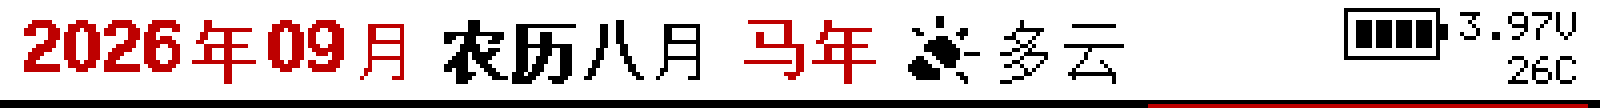
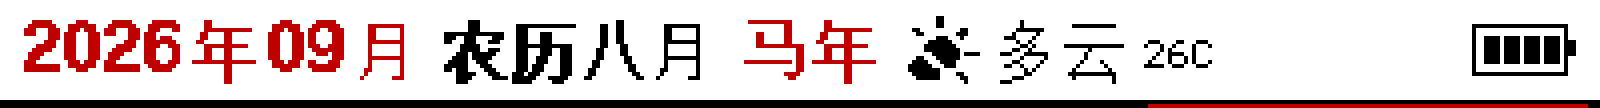
zk42v-epd: build 43 —— 表头收尾：温度跟天气走，电池只留图标
两处按你说的改：
  · 温度从"右上角电池下面那行小字"挪到**天气后面**（"多云 26C"读成一句话）。
    手机下发的天气温度优先（整度 26C），没收到过才退回片内温度（26.4C）；
    没有天气码时画在"马年"后面。新增 draw_header_temp() 把这段收干净。
  · 电池**只画图标**，不写 "3.97V" 那几个字；图标顺势竖直居中
    （原来跟温度/电压挤成两行，贴着上沿）。

ZK_BUILD_ID 42 -> 43；预览图（表头放大 4 倍 + 整页）重出；
test_gui 的 5d 判据数字跟着换（165 -> 363 -> 559）。

镜像：check_sum 0x00C79934 / 128504 字节 / 33 颗扇区 /
SHA-256 d1791a114802e6deb6b49f653c0f3a4e5ecb119b0abf04a22ac380ef0b47c088
固件 10 套自测全绿。

Changed region(s): [[0.8125, 0.1111, 1.0, 0.7778], [0.7188, 0.3611, 0.7812, 0.6389], [0.8125, 0.0556, 0.9062, 0.1111]]

diff --git a/zk42v-epd/firmware/zk42v-epd-app/Src/img/zkgui.c b/zk42v-epd/firmware/zk42v-epd-app/Src/img/zkgui.c
@@ -653,6 +653,7 @@ static void draw_dial(uint8_t *buf, int cx, int cy, int r, int hour, int min)
    我们按 6 行排：表头 26 + 黑条 22 + 格子 252 → 行距 42。 */
 #define CAL_HDR_H    26                            /* 表头（白底） */
 #define CAL_HDR_ICON_Y 3                           /* 表头里天气图标的上边距（20px 图标 -> 3..22） */
+#define CAL_HDR_TEMP_Y 10                          /* 表头里温度那串小字的上边距（5x7 字，跟 16px 的天气文字对齐居中） */
 #define CAL_WD_Y     26                            /* 黑星期条 */
 #define CAL_WD_H     22
 #define CAL_GRID_Y   48                            /* 格子区从黑条下沿开始 */
@@ -754,8 +755,7 @@ static void draw_battery(uint8_t *buf, int x, int y, int pct)
 /*
  * 表头（两页共用）—— 版式照社区第 14 号那版（三色纯日历）：
  *
- *   红 2026年09月   黑 农历八月   红 马年   [图标]多云   [电池] 3.90V
- *                                                                 26C
+ *   红 2026年09月   黑 农历八月   红 马年   [图标]多云 26C    [电池] 3.90V
  *   ─────────────────────────────────────────────────────────────
  *
  * 跟 build 29 那版的区别：**不再是黑条白字**，改成白底 —— 年月用红色、农历黑色、
@@ -765,13 +765,76 @@ static void draw_battery(uint8_t *buf, int x, int y, int pct)
  *   · 星期（星期X）**不画了**：下面那条黑星期条已经写着一~日，表头重复一遍是浪费；
  *   · 天气画在"马年"右边：**图标 + 文字**（多云 / 雷阵雨…），
  *     天气码 + 天气温度都是手机经 BLE 命令 0x71 下发的（这块板子没有天气传感器）。
+ *
+ * build 43：**温度跟着天气走**（原来挤在右上角电池下面那行小字的位置）——
+ *   现在挨着天气文字画，"多云 26C"读起来是一句话；右上角**只留电池图标**
+ *   （不写 "3.97V" 那几个字了，电量多少看图标里那几格）。
  */
+/* 表头里那串温度（"26C" / "-2C" / "26.4C"）—— build 43 起画在**天气后面**。
+   手机下发的天气温度优先（整度）；没收到过才退回片内温度（一位小数）。
+   返回画完之后的 x（没温度可画就原样返回）。 */
+static int draw_header_temp(uint8_t *buf, int x, const zkgui_info_t *info)
+{
+    char s[8];
+    int  neg = 0;
+
+    if (info->env_temp_c != (int8_t)(-128))
+    {
+        int t  = info->env_temp_c;
+        int av = (t < 0) ? -t : t;
+        int k  = 0;
+
+        neg = (t < 0);
+        if (av >= 10)
+        {
+            s[k++] = (char)('0' + (av / 10) % 10);
+        }
+        s[k++] = (char)('0' + av % 10);
+        s[k++] = 'C';
+        s[k]   = 0;
+    }
+    else if (info->temp_c10 != ZK_TEMP_NONE)
+    {
+        int t  = info->temp_c10;
+        int av = (t < 0) ? -t : t;
+
+        neg = (t < 0);
+        s[0] = (char)('0' + (av / 100) % 10);
+        s[1] = (char)('0' + (av / 10) % 10);
+        s[2] = '.';
+        s[3] = (char)('0' + av % 10);
+        s[4] = 'C';
+        s[5] = 0;
+        if (av < 100)                        /* 26.4 -> "26.4C" */
+        {
+            s[0] = s[1];
+            s[1] = s[2];
+            s[2] = s[3];
+            s[3] = 'C';
+            s[4] = 0;
+        }
+    }
+    else
+    {
+        return x;                            /* 两个温度都没有：这一段留空 */
+    }
+
+    x += 3;                                  /* 跟天气文字拉开 3px */
+    if (neg)
+    {
+        draw_text5(buf, x, CAL_HDR_TEMP_Y, "-", 1, C_BLACK);
+        x += 7;
+    }
+    draw_text5(buf, x, CAL_HDR_TEMP_Y, s, 1, C_BLACK);
+    return x + text5_width(s, 1);
+}
+
 static void draw_header(uint8_t *buf, int year, int mon, int day,
                         const zkgui_info_t *info, int with_lunar)
 {
     char  s[12];
     char  mbuf[16];
-    int   x, n, zi;
+    int   x, zi;
 
     fill_rect(buf, 0, 0, ZKGUI_W, CAL_HDR_H - 1, C_WHITE);
 
@@ -854,69 +917,16 @@ static void draw_header(uint8_t *buf, int year, int mon, int day,
         }
     }
 
-    /* 右上：电池 + 电压 / 温度（两行小字，照样板挤在右上角） */
-    n = ZKGUI_W - 6;
+    /* 再右：温度 —— **手机给的天气温度优先**，没有才退回片内温度。
+       build 43 起从右上角挪到这里，紧跟天气（"多云 26C"是一句话） */
+    x = draw_header_temp(buf, x, info);
+
+    /* 右上：**只画电池图标**（build 43：不写"3.97V"那几个字了，格子不够好看；
+       电量多少直接看图标里那几格）。图标竖直居中，跟左边那行字对齐。 */
+    static const int bat_w = 26;                 /* draw_battery 里那个 26x13 的外形 */
     if (info->bat_mv >= 0)
     {
-        int mv = info->bat_mv;
-
-        s[0] = (char)('0' + (mv / 1000) % 10);
-        s[1] = '.';
-        s[2] = (char)('0' + (mv / 100) % 10);
-        s[3] = (char)('0' + (mv / 10) % 10);
-        s[4] = 'V';
-        s[5] = 0;
-        x = n - text5_width(s, 1);
-        draw_battery(buf, x - 29, 2, info->bat_pct);
-        draw_text5(buf, x, 3, s, 1, C_BLACK);
-    }
-    /* 温度：**优先用手机下发的天气温度**（整度，见 BLE 命令 0x71）；
-       没收到过才退回片内温度（一位小数）—— 片内温度是芯片结温，不是天气 */
-    if (info->env_temp_c != (int8_t)(-128))
-    {
-        int t  = info->env_temp_c;
-        int av = (t < 0) ? -t : t;
-        int k  = 0;
-
-        if (t < 0)
-        {
-            s[k++] = '-';
-        }
-        if (av >= 10)
-        {
-            s[k++] = (char)('0' + (av / 10) % 10);
-        }
-        s[k++] = (char)('0' + av % 10);
-        s[k++] = 'C';
-        s[k]   = 0;
-        x = n - text5_width(s, 1);
-        draw_text5(buf, x, 14, s, 1, C_BLACK);
-    }
-    else if (info->temp_c10 != ZK_TEMP_NONE)
-    {
-        int t  = info->temp_c10;
-        int av = (t < 0) ? -t : t;
-
-        s[0] = (char)('0' + (av / 100) % 10);
-        s[1] = (char)('0' + (av / 10) % 10);
-        s[2] = '.';
-        s[3] = (char)('0' + av % 10);
-        s[4] = 'C';
-        s[5] = 0;
-        if (av < 100)
-        {
-            s[0] = s[1];
-            s[1] = s[2];
-            s[2] = s[3];
-            s[3] = 'C';
-            s[4] = 0;
-        }
-        x = n - text5_width(s, 1);
-        if (t < 0)
-        {
-            draw_text5(buf, x - 7, 14, "-", 1, C_BLACK);
-        }
-        draw_text5(buf, x, 14, s, 1, C_BLACK);
+        draw_battery(buf, ZKGUI_W - 6 - bat_w, (CAL_HDR_H - 1 - 13) / 2, info->bat_pct);
     }
 
     /* 表头下面一条黑线 == 星期条的上边框 */

diff --git a/zk42v-epd/firmware/zk42v-epd-app/Src/board/zk_dbg.h b/zk42v-epd/firmware/zk42v-epd-app/Src/board/zk_dbg.h
@@ -23,7 +23,7 @@
    ⚠ 这个数一直停在 31 —— build 32~41 忘了跟着 +1，结果状态块里的 `build = 31`
    跟 README 的「build 4x」对不上，刷机后没法一眼确认"新固件到底跑起来没有"。
    build 42 起跟 README 的里程碑号对齐（这一版就是 42）。 */
-#define ZK_BUILD_ID   42u
+#define ZK_BUILD_ID   43u
 
 /* B2-A：BLE 状态（写进状态块，status.sh 能读） */
 #define ZK_BLE_ST_OFF        0u

diff --git a/zk42v-epd/firmware/README.md b/zk42v-epd/firmware/README.md
@@ -1,5 +1,31 @@
 # ZK42V 自研固件（方向 B）第一版：把屏点亮
 
+> **2026-09-29 build 43 —— 表头收尾：温度跟天气走，电池只留图标**
+>
+> 按你说的两处改完，表头就是：
+>
+> ```
+> 2026年09月   农历八月   马年   [☀]多云 26C            [电池]
+> ```
+>
+> 1. **温度挪到天气后面**（原来挤在右上角电池下面那行小字）——现在"多云 26C"读成一句话。
+>    还是**手机下发的天气温度优先**（整度，`26C`），没收到过才退回片内温度（一位小数 `26.4C`）；
+>    没有天气码的时候，它就画在"马年"后面（原来那格的位置）。
+> 2. **电池只画图标**，不写 `3.97V` 那几个字了 —— 电量多少看图标里那几格；
+>    图标顺势改成**竖直居中**（原来跟温度和电压挤成两行，所以贴着上沿）。
+> 3. `ZK_BUILD_ID` 跟着走到 43：刷完 `status.sh` 看到 `build = 43` 才算刷进去了。
+>
+> 预览（表头放大 4 倍，直接看版式）：`docs/preview/preview-header-weather.png`（多云 26℃）、
+> `preview-header-weather-thunder.png`（雷阵雨 30℃）；整页
+> `preview-calendar-weather*.png`。
+>
+> 镜像：SHA-256 `d1791a11…b47c088`，`check_sum = 0x00C79934`，**128504 字节**，33 颗扇区。
+> 固件 10 套自测全绿（`test_gui.py` 的 5d 判据跟着换了数字：加天气后表头黑像素
+> `165 → 363`，雷阵雨比多云再多 `196`）。
+>
+> 觉得温度那串字偏小的话说一声：它现在用的是 5x7 点阵（表头里唯一还没"长个"的字），
+> 放大 2 倍就是 14px 高、跟旁边的汉字齐平（宽度够，"雷阵雨 26.4C" 也塞得下）。
+
 > **2026-09-29 build 42 —— 电压显示 2.59V 的真相：读电池读成了温度二极管**
 >
 > 你喂 3.3V，表头右上角写 `2.59V`、电量 0%、还提示"该充电了"。查下来**不是**你接错，
